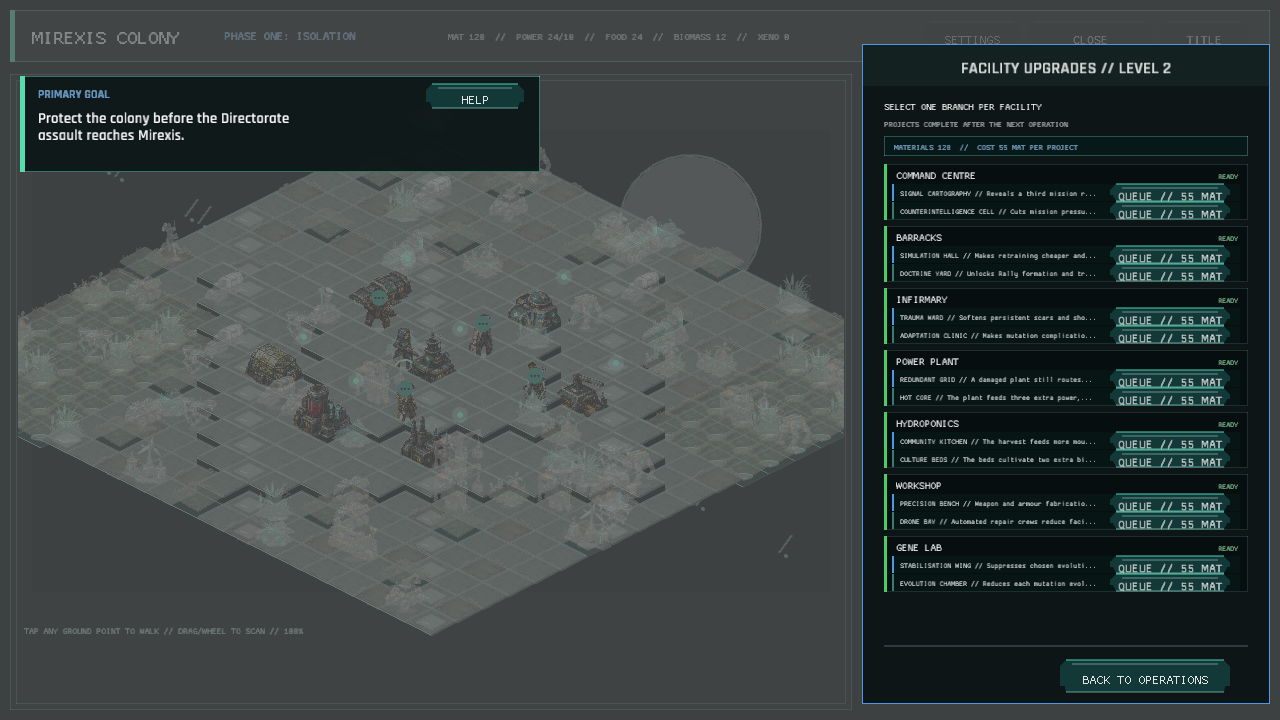
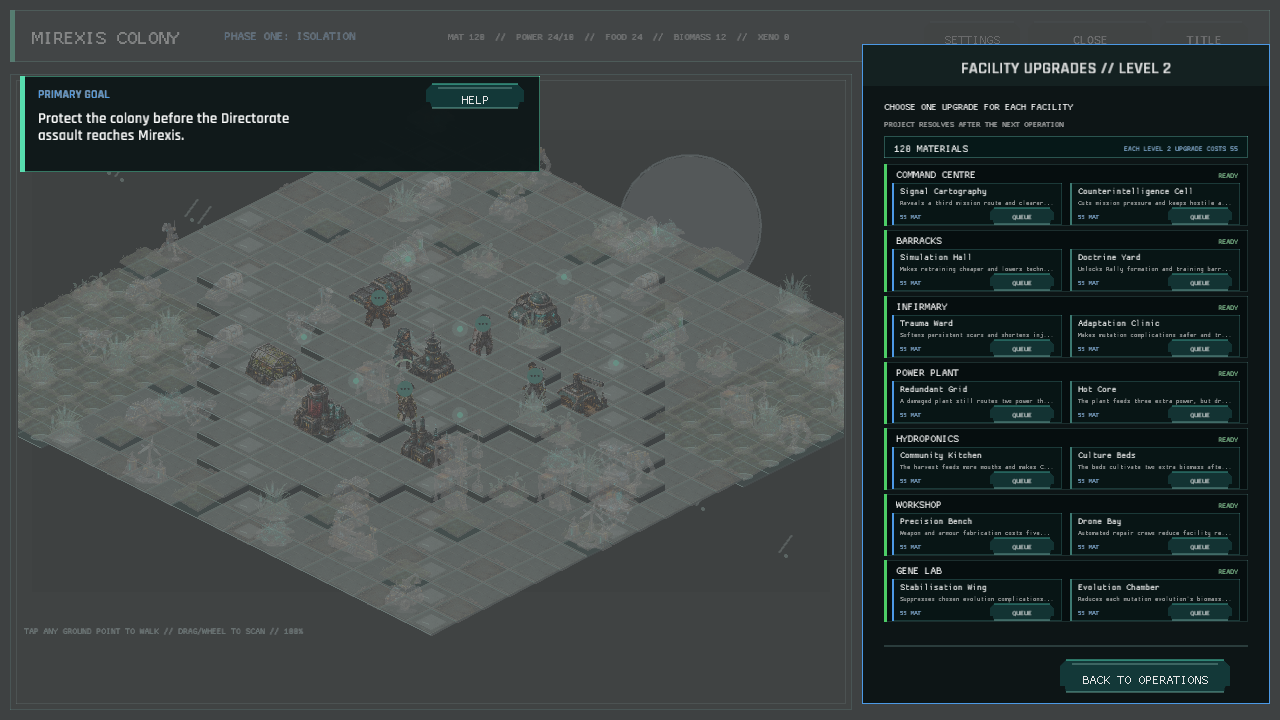
The colony weighs each path before it spends its material (facility-upgrade branch hierarchy)
The upgrade modal still gave its facility name, effect text, status, cost, and queue controls nearly equal visual weight. Turn each facility into a bounded two-branch card so the facility establishes the group, the upgrade name leads each choice, the effect follows it, and cost plus action sit quietly at the bottom.

Keep the seven-facility view visible at 1280x720, preserve the existing state and queue behavior, and replace the large repeated action bars with smaller chamfered QUEUE controls. Refresh ui_facility_upgrades.png and the capture inventory after the rendered review.

Verified with cargo fmt -- --check, cargo test, git diff --check, the capture audit (109 unique scenes), and .\\publish.ps1 for Windows/WebGL preview deployment.

Changed region(s): [[0.6875, 0.1222, 0.9688, 0.8861], [0.6875, 0.1222, 0.7188, 0.1528]]

diff --git a/src/colony_ui/upgrades.rs b/src/colony_ui/upgrades.rs
@@ -5,16 +5,20 @@ use crate::colony::BuildingKind;
 use crate::ui::UiAction;
 use crate::ui_widgets::button;
 use macroquad::prelude::*;
-use macroquad_toolkit::prelude::{dark, draw_surface_with_title, SurfaceStyle, TextStyle};
+use macroquad_toolkit::prelude::{
+    dark, draw_chamfered_surface, draw_surface_with_title, ChamferedSurfaceStyle, SurfaceStyle,
+    TextStyle,
+};
+use macroquad_toolkit::ui::RectExt;
 
 const UPGRADE_RECT: Rect = Rect::new(1064.0, 312.0, 176.0, 32.0);
 const UPGRADE_PANEL: Rect = Rect::new(862.0, 44.0, 408.0, 660.0);
 const CONTENT_RECT: Rect = Rect::new(884.0, 0.0, 364.0, 0.0);
 const FACILITY_LIST_Y: f32 = 164.0;
-const FACILITY_ROW_STEP: f32 = 62.0;
-const FACILITY_ROW_HEIGHT: f32 = 56.0;
-const OPTION_BUTTON_X: f32 = 1110.0;
-const OPTION_BUTTON_WIDTH: f32 = 120.0;
+const FACILITY_ROW_STEP: f32 = 66.0;
+const FACILITY_ROW_HEIGHT: f32 = 62.0;
+const OPTION_CARD_WIDTH: f32 = 170.0;
+const OPTION_CARD_HEIGHT: f32 = 42.0;
 const UPGRADEABLE_FACILITIES: [BuildingKind; 7] = [
     BuildingKind::CommandCentre,
     BuildingKind::Barracks,
@@ -80,13 +84,13 @@ pub(super) fn draw_modal(campaign: &CampaignState, mouse: Vec2, actions: &mut Ve
         TextStyle::new(17.0, dark::TEXT),
     );
     super::draw_ui_text_ex(
-        "SELECT ONE BRANCH PER FACILITY",
+        "CHOOSE ONE UPGRADE FOR EACH FACILITY",
         CONTENT_RECT.x,
         110.0,
         TextStyle::new(12.0, dark::TEXT_BRIGHT).params(),
     );
     super::draw_ui_text_ex(
-        "PROJECTS COMPLETE AFTER THE NEXT OPERATION",
+        "PROJECT RESOLVES AFTER THE NEXT OPERATION",
         CONTENT_RECT.x,
         127.0,
         TextStyle::new(10.0, dark::TEXT_DIM).params(),
@@ -95,26 +99,33 @@ pub(super) fn draw_modal(campaign: &CampaignState, mouse: Vec2, actions: &mut Ve
         CONTENT_RECT.x,
         136.0,
         CONTENT_RECT.w,
-        20.0,
+        22.0,
         Color::new(0.025, 0.095, 0.095, 1.0),
     );
     draw_rectangle_lines(
         CONTENT_RECT.x,
         136.0,
         CONTENT_RECT.w,
-        20.0,
+        22.0,
         1.0,
         Color::new(0.18, 0.54, 0.49, 0.75),
     );
     super::draw_ui_text_ex(
-        &format!(
-            "MATERIALS {:>3}  //  COST {} MAT PER PROJECT",
-            campaign.colony.resources.materials,
-            UPGRADEABLE_FACILITIES[0].upgrade_cost()
-        ),
+        &format!("{} MATERIALS", campaign.colony.resources.materials),
         CONTENT_RECT.x + 10.0,
-        150.0,
-        TextStyle::new(10.0, dark::ACCENT).params(),
+        152.0,
+        TextStyle::new(13.0, dark::TEXT_BRIGHT).params(),
+    );
+    let cost_note = format!(
+        "EACH LEVEL 2 UPGRADE COSTS {}",
+        UPGRADEABLE_FACILITIES[0].upgrade_cost()
+    );
+    let cost_width = measure_text(&cost_note, None, 9, 1.0).width;
+    super::draw_ui_text_ex(
+        &cost_note,
+        CONTENT_RECT.right() - cost_width - 10.0,
+        151.0,
+        TextStyle::new(9.0, dark::ACCENT).params(),
     );
 
     let mut row_index = 0;
@@ -186,14 +197,14 @@ fn draw_facility_row(
     super::draw_ui_text_ex(
         &kind.name().to_uppercase(),
         row.x + 12.0,
-        row.y + 15.0,
+        row.y + 14.0,
         TextStyle::new(13.0, dark::TEXT_BRIGHT).params(),
     );
     let status_width = measure_text(status, None, 9, 1.0).width;
     super::draw_ui_text_ex(
         status,
         row.right() - status_width - 10.0,
-        row.y + 15.0,
+        row.y + 14.0,
         TextStyle::new(9.0, facility_status_color(status)).params(),
     );
 
@@ -207,57 +218,146 @@ fn draw_facility_row(
         kind.upgrade_cost(),
     );
     for (option_index, option) in kind.upgrade_options().iter().enumerate() {
-        let option_row = Rect::new(
-            row.x + 8.0,
-            row.y + 20.0 + option_index as f32 * 18.0,
-            row.w - 16.0,
-            17.0,
+        let option_card = Rect::new(
+            row.x + 8.0 + option_index as f32 * (OPTION_CARD_WIDTH + 8.0),
+            row.y + 19.0,
+            OPTION_CARD_WIDTH,
+            OPTION_CARD_HEIGHT,
         );
-        draw_rectangle(
-            option_row.x,
-            option_row.y,
-            option_row.w,
-            option_row.h,
-            Color::new(0.035, 0.085, 0.085, 1.0),
-        );
-        draw_rectangle(
-            option_row.x,
-            option_row.y,
-            2.0,
-            option_row.h,
-            if option_index == 0 {
-                dark::ACCENT
-            } else {
-                Color::new(0.24, 0.48, 0.45, 1.0)
-            },
-        );
-        let label = fit_text(
-            &format!("{} // {}", option.name.to_uppercase(), option.description),
-            198.0,
-            9,
-        );
-        super::draw_ui_text_ex(
-            &label,
-            option_row.x + 8.0,
-            option_row.y + 12.0,
-            TextStyle::new(9.0, dark::TEXT).params(),
-        );
-        if button(
-            Rect::new(
-                OPTION_BUTTON_X,
-                option_row.y,
-                OPTION_BUTTON_WIDTH,
-                option_row.h,
-            ),
+        draw_option_card(
+            option_card,
+            option_index,
+            option,
             &queue_label,
             can_queue,
+            kind.upgrade_cost(),
             mouse,
-        ) {
-            actions.push(UiAction::QueueFacilityUpgrade(
-                building.id.clone(),
-                option.id.to_owned(),
-            ));
-        }
+            building,
+            actions,
+        );
+    }
+}
+
+fn draw_option_card(
+    card: Rect,
+    option_index: usize,
+    option: &crate::colony::FacilityUpgradeOption,
+    queue_label: &str,
+    can_queue: bool,
+    cost: i32,
+    mouse: Vec2,
+    building: &crate::colony::BuildingState,
+    actions: &mut Vec<UiAction>,
+) {
+    let action_rect = Rect::new(card.x + 98.0, card.y + 25.0, 64.0, 16.0);
+    let hovered = can_queue && action_rect.contains_point(mouse);
+    draw_rectangle(
+        card.x,
+        card.y,
+        card.w,
+        card.h,
+        if hovered {
+            Color::new(0.055, 0.13, 0.13, 1.0)
+        } else {
+            Color::new(0.035, 0.085, 0.085, 1.0)
+        },
+    );
+    draw_rectangle_lines(
+        card.x,
+        card.y,
+        card.w,
+        card.h,
+        1.0,
+        if hovered {
+            dark::ACCENT
+        } else {
+            Color::new(0.15, 0.34, 0.33, 0.95)
+        },
+    );
+    draw_rectangle(
+        card.x,
+        card.y,
+        2.0,
+        card.h,
+        if option_index == 0 {
+            dark::ACCENT
+        } else {
+            Color::new(0.24, 0.48, 0.45, 1.0)
+        },
+    );
+    super::draw_ui_text_ex(
+        option.name,
+        card.x + 8.0,
+        card.y + 11.0,
+        TextStyle::new(11.0, dark::TEXT_BRIGHT).params(),
+    );
+    super::draw_ui_text_ex(
+        &fit_text(option.description, 154.0, 8),
+        card.x + 8.0,
+        card.y + 22.0,
+        TextStyle::new(8.0, dark::TEXT_DIM).params(),
+    );
+    super::draw_ui_text_ex(
+        &format!("{cost} MAT"),
+        card.x + 8.0,
+        card.y + 36.0,
+        TextStyle::new(8.0, dark::ACCENT).params(),
+    );
+    if choice_action_button(
+        action_rect,
+        compact_action_label(queue_label),
+        can_queue,
+        mouse,
+    ) {
+        actions.push(UiAction::QueueFacilityUpgrade(
+            building.id.clone(),
+            option.id.to_owned(),
+        ));
+    }
+}
+
+fn choice_action_button(rect: Rect, label: &str, enabled: bool, mouse: Vec2) -> bool {
+    let hovered = enabled && rect.contains_point(mouse);
+    let fill = if !enabled {
+        Color::new(0.045, 0.075, 0.075, 1.0)
+    } else if hovered {
+        Color::new(0.10, 0.31, 0.29, 1.0)
+    } else {
+        Color::new(0.075, 0.20, 0.20, 1.0)
+    };
+    draw_chamfered_surface(
+        rect,
+        &ChamferedSurfaceStyle::new(
+            fill,
+            if hovered {
+                dark::ACCENT
+            } else if enabled {
+                Color::new(0.22, 0.58, 0.53, 1.0)
+            } else {
+                Color::new(0.12, 0.20, 0.20, 1.0)
+            },
+        )
+        .with_corner(4.0)
+        .with_border_width(if hovered { 2.0 } else { 1.0 }),
+    );
+    let text_width = measure_text(label, None, 9, 1.0).width;
+    super::draw_ui_text_ex(
+        label,
+        rect.x + (rect.w - text_width) * 0.5,
+        rect.y + 11.5,
+        TextStyle::new(9.0, if enabled { dark::TEXT } else { dark::TEXT_DIM }).params(),
+    );
+    hovered && is_mouse_button_released(MouseButton::Left)
+}
+
+fn compact_action_label(label: &str) -> &str {
+    match label {
+        "LEVEL 2 ACTIVE" => "ACTIVE",
+        "REPAIR FIRST" => "REPAIR",
+        "PROJECT QUEUED" => "QUEUED",
+        "NEED POWER" => "POWER",
+        "NEED 55 MAT" => "NEED MAT",
+        _ => "QUEUE",
     }
 }
 

diff --git a/docs/verification/FINAL_CAPTURE_INVENTORY.md b/docs/verification/FINAL_CAPTURE_INVENTORY.md
@@ -55,7 +55,7 @@ Manifest: `scripts/capture_ui.ps1`
[8 lines of base64/hex data omitted]
